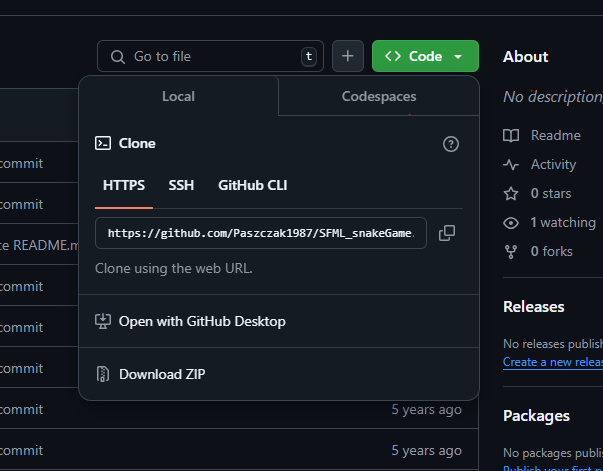
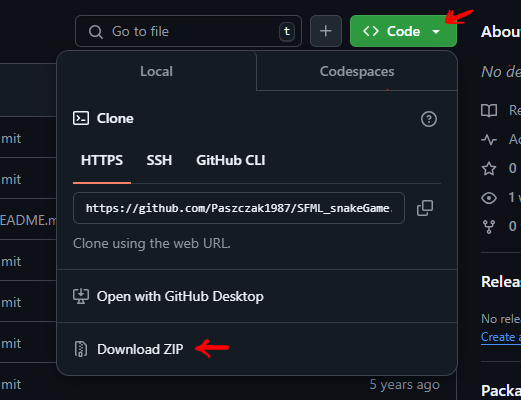
how to run it modal completed, small fixes

diff --git a/index.html b/index.html
@@ -101,7 +101,9 @@
                     library, which you can check
                     out on my GitHub: <a href="https://github.com/Paszczak1987/SFML_snakeGame.git"
                         target="_blank">snakeGame</a> and <a
-                        href="https://github.com/Paszczak1987/SFML_arkanoidGame.git" target="_blank">arkanoid</a>.
+                        href="https://github.com/Paszczak1987/SFML_arkanoidGame.git" target="_blank">arkanoid</a> (Don't
+                    know how to run these? <a href="#" data-bs-toggle="modal" data-bs-target="#how_to_run_it">Here</a>
+                    is how).
                 </p>
                 <p>
                     At that time, a friend of mine told me about an interesting <span
@@ -117,7 +119,7 @@
                     You may ask, what am I doing now? Well, currently, I am focusing on deepening my knowledge of
                     <span class="fw-medium fst-italic">Python</span>, particularly in building web applications using
                     <span class="fw-medium fst-italic">Django</span>. I'm attending a <a
-                        href="https://coderslab.pl/pl/python-developer" target="_blank">Python
+                        href="https://coderslab.com/en/courses/python-developer" target="_blank">Python
                         Web Developer</a> course at Coders Lab, where I am learning how to create robust and scalable
                     web
                     applications, including developing <span class="fw-medium fst-italic">REST API</span>s that
@@ -408,7 +410,7 @@
         <div class="modal-dialog">
             <div class="modal-content">
                 <div class="modal-header">
-                    <h1 class="modal-title fs-5" id="staticBackdropLabel">Full Stack Developer</h1>
+                    <h1 class="modal-title fs-5" id="staticBackdropLabel">Full Stack Developer characteristics</h1>
                     <button type="button" class="btn-close" data-bs-dismiss="modal" aria-label="Close"></button>
                 </div>
                 <div class="modal-body">
@@ -438,7 +440,34 @@
         </div>
     </div>
 
-
+    <div class="modal fade" id="how_to_run_it" data-bs-backdrop="static" data-bs-keyboard="false" tabindex="-1"
+        aria-labelledby="staticBackdropLabel" aria-hidden="true">
+        <div class="modal-dialog">
+            <div class="modal-content">
+                <div class="modal-header">
+                    <h3>How to run these beauties.</h3>
+                    <button type="button" class="btn-close" data-bs-dismiss="modal" aria-label="Close"></button>
+                </div>
+                <div class="modal-body">
+                    <p class="mb-1"><strong><span class="text-info-emphasis">First</span> - Download repository to Your
+                            hard drive.</strong></p>
+                    <div class="d-flex justify-content-center overflow-auto border rounded">
+                        <img src="assets/images/gitHUB_howToDownload.PNG" class="img-fluid" alt="">
+                    </div>
+                    <p class="pt-3 mb-1"><strong><span class="text-info-emphasis">Second</span> - Find file on Your
+                            downloads folder and unzip it.</strong></p>
+                    <div class="d-flex justify-content-start overflow-auto border rounded">
+                        <img src="assets/images/gitHUB_howToUnzip.PNG" class="" alt="">
+                    </div>
+                    <p class="pt-3 mb-1"><strong><span class="text-info-emphasis">Lastly</span> - Go to unzipped folder,
+                            find .exe file and run it.</strong></p>
+                    <div class="d-flex justify-content-start overflow-auto border rounded">
+                        <img src="assets/images/gitHUB_howToRunIt.PNG" class="img-fluid" alt="">
+                    </div>
+                </div>
+            </div>
+        </div>
+    </div>
 
     <!-- Footer -->
     <footer class="footer-dark text-center border-top py-2 fixed-bottom" id="site-footer">
@@ -452,9 +481,7 @@
 
     <!-- My scripts -->
     <script src="js/theme_toggle.js"></script>
-    <!-- <script src="js/spacer.js"></script> -->
     <script src="js/nav_logic.js"></script>
-
 
 </body>
 
